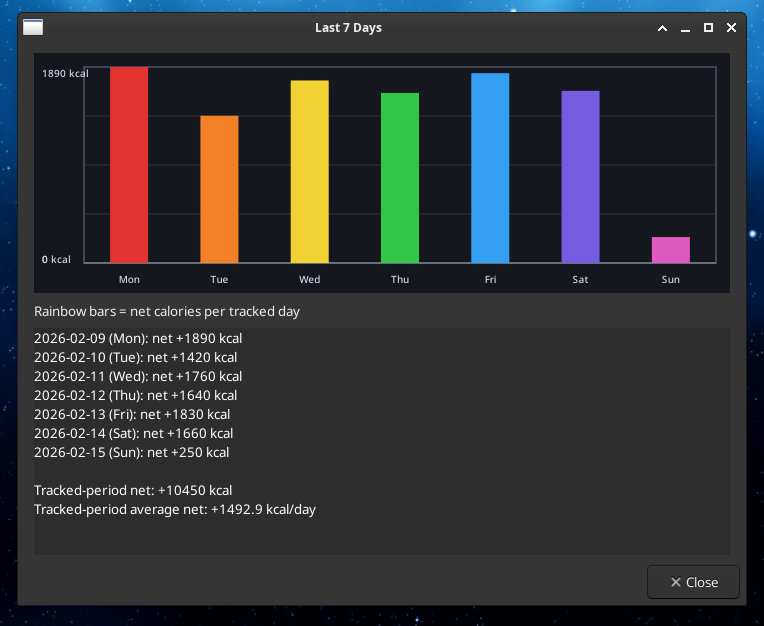
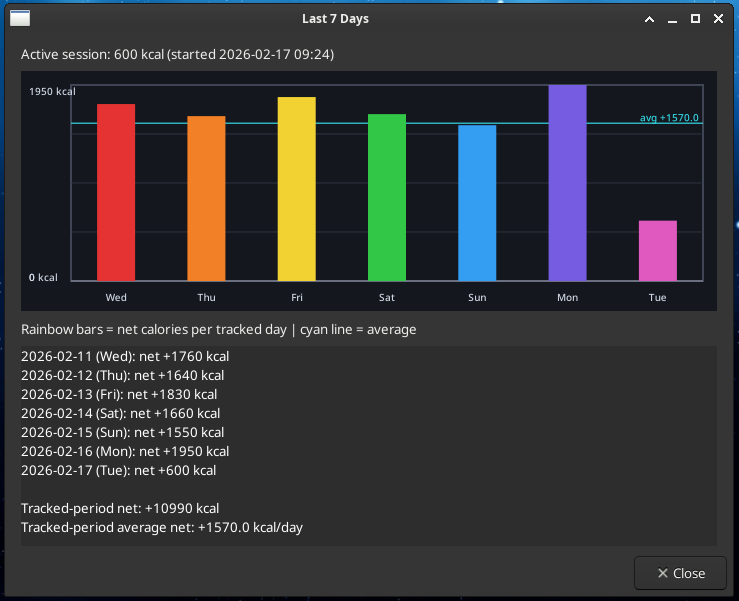
added average line to graph plus some code cleanup attempts and doc update

Changed region(s): [[0.0, 0.0, 1.0, 1.0]]

diff --git a/calorie_widget.py b/calorie_widget.py
@@ -14,7 +14,7 @@ from storage import CalorieStorage
 from weekly import build_last_week_summary as build_weekly_summary
 
 class CalorieTray:
-    """GTK tray widget for tracking calories with a single event log."""
+    """GTK tray widget for tracking calories with active and archived logs."""
 
     DEFAULT_LEFT_CLICK_AMOUNT = 50
     DEFAULT_RIGHT_CLICK_AMOUNT = 10
@@ -36,12 +36,7 @@ class CalorieTray:
             default_right_click_amount=self.DEFAULT_RIGHT_CLICK_AMOUNT,
         )
         if state_needs_persist:
-            self.storage.save_state(
-                self.calories,
-                self.left_click_amount,
-                self.right_click_amount,
-                self.session_start,
-            )
+            self.persist_state()
         self.storage.prune_session_log()
         self.storage.ensure_initial_log_entry(self.session_start, self.calories)
 
@@ -189,16 +184,44 @@ class CalorieTray:
         self.menu_icon.set_from_pixbuf(self.render_menu_icon())
         self.menu_icon.set_tooltip_text('Menu')
 
-    def on_left_click(self, _icon):
-        """Add calories on main-icon left click and persist state."""
-        self.calories += self.left_click_amount
-        self.storage.append_session_event(self.left_click_amount, self.calories, 'add')
+    def persist_state(self):
+        """Persist current runtime state values."""
         self.storage.save_state(
             self.calories,
             self.left_click_amount,
             self.right_click_amount,
             self.session_start,
         )
+
+    def confirm_action(self, title, secondary_text, action_label):
+        """Show a warning confirmation dialog and return True on accept."""
+        confirm = Gtk.MessageDialog(
+            None,
+            Gtk.DialogFlags.MODAL,
+            Gtk.MessageType.WARNING,
+            Gtk.ButtonsType.NONE,
+            title,
+        )
+        confirm.format_secondary_text(secondary_text)
+        confirm.add_buttons(
+            Gtk.STOCK_CANCEL,
+            Gtk.ResponseType.CANCEL,
+            action_label,
+            Gtk.ResponseType.OK,
+        )
+        response = confirm.run()
+        confirm.destroy()
+        return response == Gtk.ResponseType.OK
+
+    def on_left_click(self, _icon):
+        """Add calories on main-icon left click and persist state."""
+        self.calories += self.left_click_amount
+        if not self.storage.append_session_event(self.left_click_amount, self.calories, 'add'):
+            self.show_error_dialog(
+                'Log Write Failed',
+                'Could not append to log. Current value was still updated.',
+            )
+        self.persist_state()
         self.refresh_icon()
 
     def on_right_click(self, _icon, _button, _event_time):
@@ -207,13 +230,12 @@ class CalorieTray:
         self.calories = max(0, self.calories - self.right_click_amount)
         actual_subtract = before - self.calories
         if actual_subtract > 0:
-            self.storage.append_session_event(-actual_subtract, self.calories, 'subtract')
-        self.storage.save_state(
-            self.calories,
-            self.left_click_amount,
-            self.right_click_amount,
-            self.session_start,
-        )
+            if not self.storage.append_session_event(-actual_subtract, self.calories, 'subtract'):
+                self.show_error_dialog(
+                    'Log Write Failed',
+                    'Could not append to log. Current value was still updated.',
+                )
+        self.persist_state()
         self.refresh_icon()
 
     def show_menu(self, icon=None, button=0, event_time=None):
@@ -241,12 +263,7 @@ class CalorieTray:
             return
         self.calories = 0
         self.session_start = reset_time
-        self.storage.save_state(
-            self.calories,
-            self.left_click_amount,
-            self.right_click_amount,
-            self.session_start,
-        )
+        self.persist_state()
         self.refresh_icon()
 
     def on_view_log(self, _item):
@@ -264,54 +281,29 @@ class CalorieTray:
 
     def on_clear_log(self, _item):
         """Ask for confirmation, then clear the click-event log."""
-        confirm = Gtk.MessageDialog(
-            None,
-            Gtk.DialogFlags.MODAL,
-            Gtk.MessageType.WARNING,
-            Gtk.ButtonsType.NONE,
+        if not self.confirm_action(
             'Clear entire log?',
-        )
-        confirm.format_secondary_text('This will permanently remove retained click events.')
-        confirm.add_buttons(
-            Gtk.STOCK_CANCEL,
-            Gtk.ResponseType.CANCEL,
+            'This will permanently remove retained click events.',
             'Clear Log',
-            Gtk.ResponseType.OK,
-        )
-        response = confirm.run()
-        confirm.destroy()
-        if response != Gtk.ResponseType.OK:
+        ):
             return
         if self.storage.clear_log():
             self.session_start = datetime.now(timezone.utc).astimezone()
-            self.storage.save_state(
-                self.calories,
-                self.left_click_amount,
-                self.right_click_amount,
-                self.session_start,
-            )
+            self.persist_state()
 
     def on_clear_archive(self, _item):
         """Ask for confirmation, then clear the archived log file."""
-        confirm = Gtk.MessageDialog(
-            None,
-            Gtk.DialogFlags.MODAL,
-            Gtk.MessageType.WARNING,
-            Gtk.ButtonsType.NONE,
+        if not self.confirm_action(
             'Clear archived log?',
-        )
-        confirm.format_secondary_text('This permanently removes all archived log entries.')
-        confirm.add_buttons(
-            Gtk.STOCK_CANCEL,
-            Gtk.ResponseType.CANCEL,
+            'This permanently removes all archived log entries.',
             'Clear Archive',
-            Gtk.ResponseType.OK,
-        )
-        response = confirm.run()
-        confirm.destroy()
-        if response != Gtk.ResponseType.OK:
+        ):
             return
-        self.storage.clear_archive_log()
+        if not self.storage.clear_archive_log():
+            self.show_error_dialog(
+                'Clear Archive Failed',
+                'Could not clear archived log entries.',
+            )
 
     def on_view_archive(self, _item):
         """Display archived log entries in a scrollable dialog."""
@@ -361,12 +353,7 @@ class CalorieTray:
         if response == Gtk.ResponseType.OK:
             self.left_click_amount = int(left_input.get_value())
             self.right_click_amount = int(right_input.get_value())
-            self.storage.save_state(
-                self.calories,
-                self.left_click_amount,
-                self.right_click_amount,
-                self.session_start,
-            )
+            self.persist_state()
             self.refresh_icon()
         dialog.destroy()
 
@@ -438,10 +425,11 @@ class CalorieTray:
             'draw',
             self.draw_last_week_graph,
             summary['daily_bars'],
+            summary.get('average_net'),
         )
         outer.pack_start(drawing_area, False, False, 0)
 
-        legend = Gtk.Label(label='Rainbow bars = net calories per tracked day')
+        legend = Gtk.Label(label='Rainbow bars = net calories per tracked day | cyan line = average')
         legend.set_halign(Gtk.Align.START)
         outer.pack_start(legend, False, False, 0)
 
@@ -463,7 +451,7 @@ class CalorieTray:
         dialog.run()
         dialog.destroy()
 
-    def draw_last_week_graph(self, widget, cr, daily_bars):
+    def draw_last_week_graph(self, widget, cr, daily_bars, average_net):
         """Draw per-day net calories as rainbow vertical bars."""
         allocation = widget.get_allocation()
         width = allocation.width
@@ -509,6 +497,8 @@ class CalorieTray:
                 values_for_scale.append(int(item.get('net', 0)))
             except (TypeError, ValueError):
                 values_for_scale.append(0)
+        if average_net is not None:
+            values_for_scale.append(float(average_net))
 
         min_y = min(0, min(values_for_scale))
         max_y = max(values_for_scale)
@@ -526,6 +516,22 @@ class CalorieTray:
         cr.move_to(left, zero_y)
         cr.line_to(left + plot_width, zero_y)
         cr.stroke()
+
+        if average_net is not None:
+            avg_y = y_for(float(average_net))
+            cr.set_source_rgb(0.20, 0.85, 0.90)
+            cr.set_line_width(1.2)
+            cr.move_to(left, avg_y)
+            cr.line_to(left + plot_width, avg_y)
+            cr.stroke()
+
+            cr.set_source_rgb(0.20, 0.85, 0.90)
+            avg_label = f'avg {float(average_net):+.1f}'
+            ext = cr.text_extents(avg_label)
+            lx = left + plot_width - ext.width - 4
+            ly = max(top + 10, min(top + plot_height - 4, avg_y - 2))
+            cr.move_to(lx, ly)
+            cr.show_text(avg_label)
 
         rainbow = [
             (0.90, 0.20, 0.20),

diff --git a/weekly.py b/weekly.py
@@ -58,13 +58,19 @@ def build_last_week_summary(storage):
     daily_bars = []
     total_net = 0
     days_count = 0
-    any_tracking = first_session_event_ts is not None
+    if first_session_event_ts is None:
+        lines.append('')
+        lines.append('No tracked data in the last 7 days.')
+        return {
+            'text': '\n'.join(lines),
+            'daily_bars': daily_bars,
+            'average_net': None,
+        }
+
     for offset in range(7):
         day = start_day.fromordinal(start_day.toordinal() + offset)
         day_key = day.isoformat()
         if day < tracked_start_day:
-            continue
-        if not any_tracking:
             continue
         day_net = totals_net.get(day_key, 0)
         total_net += day_net
@@ -82,13 +88,12 @@ def build_last_week_summary(storage):
             lines.append(f'{day_key} ({day.strftime("%a")}): no data')
 
     lines.append('')
-    if days_count == 0:
-        lines.append('No tracked data in the last 7 days.')
-    else:
-        lines.append(f'Tracked-period net: {total_net:+d} kcal')
-        lines.append(f'Tracked-period average net: {total_net / float(days_count):+.1f} kcal/day')
+    average_net = total_net / float(days_count)
+    lines.append(f'Tracked-period net: {total_net:+d} kcal')
+    lines.append(f'Tracked-period average net: {average_net:+.1f} kcal/day')
 
     return {
         'text': '\n'.join(lines),
         'daily_bars': daily_bars,
+        'average_net': average_net,
     }

diff --git a/README.md b/README.md
@@ -27,11 +27,13 @@ Small XFCE tray widget for tracking calories.
   - The dialog also shows current active-session calories at the top.
   - One bar is shown per tracked day.
   - Bar height represents that day's net kcal.
+  - A cyan horizontal line shows the tracked-period average net kcal/day.
 - Value persists across app restarts and PC reboots.
 - `View Log` shows detailed events from the active 7-day log.
 - `View Archive` shows archived events in the same human-readable format as `View Log`.
 - `Clear Log` clears the active log after confirmation.
 - `Clear Archive` clears archived entries after confirmation.
+- If a log write or archive-clear operation fails, the app shows an error dialog.
 - Only one app instance is allowed; a second launch exits and logs an error.
 - State saves are atomic to reduce corruption risk on interruption.
 
@@ -85,13 +87,13 @@ EOF
   - Single-instance file lock handling.
   - Atomic file-write helpers.
 - `weekly.py`
-  - Builds the "Last 7 Days" summary text and per-day bar data from log events.
+  - Builds the "Last 7 Days" summary text, tracked-period average, and per-day bar data from log events.
 
 ### Data flow
 1. User action (click/menu) is handled in `calorie_widget.py`.
 2. Event/state changes are written through `CalorieStorage` in `storage.py`.
 3. Weekly view requests summary data from `weekly.py`, which reads recent events via storage.
-4. UI renders summary text + rainbow bar chart in `calorie_widget.py`.
+4. UI renders summary text + rainbow bar chart + average line in `calorie_widget.py`.
 
 ## Persistence files
 - Current value:

diff --git a/CHANGELOG.md b/CHANGELOG.md
@@ -2,15 +2,19 @@
 
 All notable changes to this project are documented in this file.
 
-## v1.0.0 - 2026-02-15 (actually over the last couple days.)
+## 2026-02-15
 - Added persistent state and single-instance lock handling.
 - Added session click logging with automatic 7-day pruning.
 - Added weekly overview with net-per-day summary and event graph.
 - Added menu actions for viewing and clearing active/archive logs.
 - Added adjustable click amounts.
 - Added GPL-3.0 licensing and project documentation updates.
-
-## v1.0.1 - 2026-02-15
 - Updated weekly overview dialog to show active-session calories.
 - Unified archive view formatting with active log view formatting.
 - Removed migration-only data handling and aligned docs with current log format.
+
+## 2026-02-17
+- Added weekly graph average reference line (cyan) using tracked-period average net kcal/day.
+- Added user-facing error dialogs when click log writes fail.
+- Added user-facing error dialog when archive clear fails.
+- Reduced duplicated UI/state persistence code paths in the tray controller.
